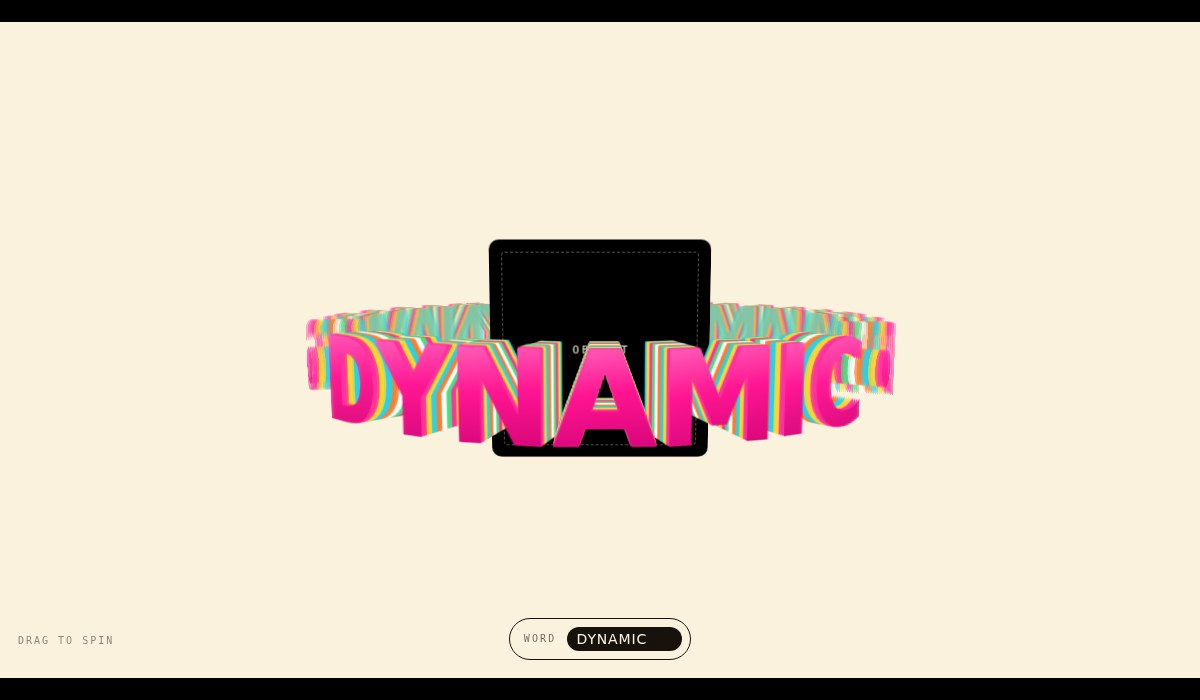
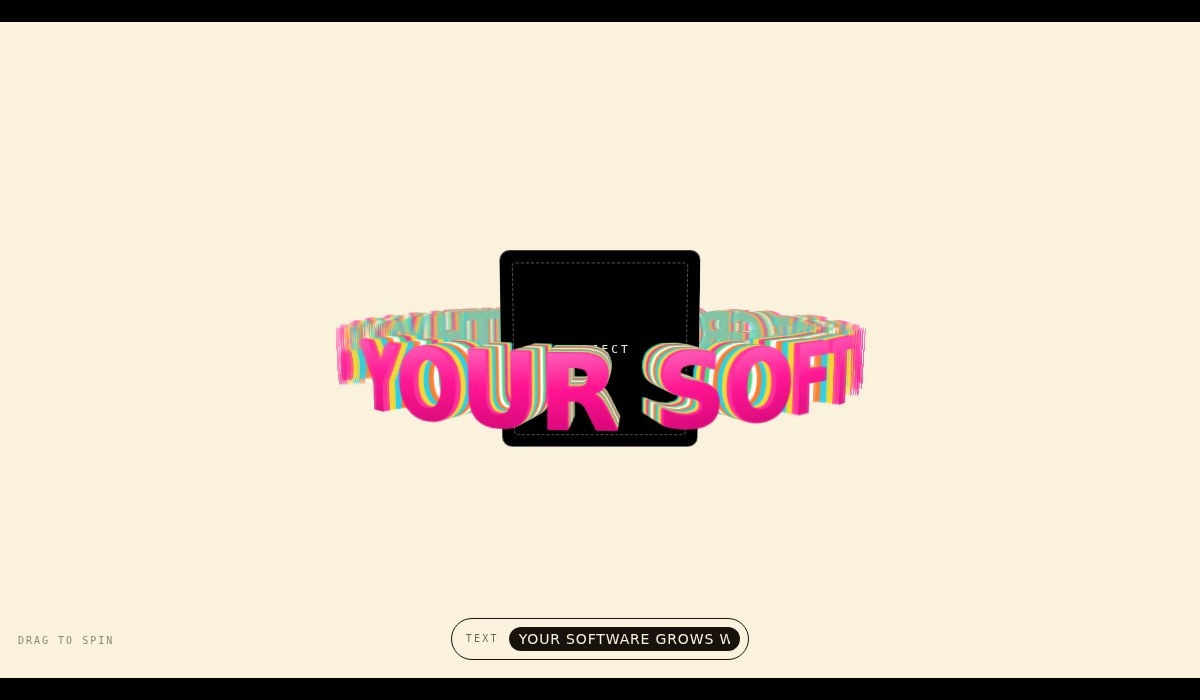
Set orbit text to the tagline and fit long phrases to the stage
A full sentence made the ring balloon well past the viewport, since the
radius is derived from the text (2πr = total width). Two fits now pull it
back, both solved with a single type scale:

- maxRadius caps the ring against its container.
- arc caps how wide the magnified front of the ring may run. This is the
  one that matters for a sentence: perspective enlarges the near letters,
  so a long phrase overflows sideways while only a few stay legible.

Letter arcs are proportional to glyph widths, so scaling the type scales
the radius by the same factor and leaves the angles untouched — one scale
satisfies both, resolved on load, on resize and on every setText.

Keeps repeat at 1: bigger type showing about a third of the sentence at a
time, rather than halving the type to show more.

Claude-Session: https://claude.ai/code/session_01Mu3EsWbYmdiY3gRFN2tWcj

Changed region(s): [[0.2467, 0.33, 0.7708, 0.66], [0.37, 0.87, 0.6167, 0.93]]

diff --git a/orbit.js b/orbit.js
@@ -11,8 +11,8 @@
  */
 class TextOrbit {
   static defaults = {
-    text: 'DYNAMIC',
-    repeat: 3,            // times the word goes round the ring
+    text: 'YOUR SOFTWARE GROWS WITH YOU',
+    repeat: 1,            // times the text goes round the ring
     separator: ' • ',     // set '' to butt the repeats together
     speed: 0.22,          // degrees per 60fps frame
     tilt: -7,             // ring tilt in degrees
@@ -20,6 +20,8 @@ class TextOrbit {
     depth: 26,            // extrusion slices per letter
     band: 3,              // slices per colour stripe
     objectScale: 0.8,     // centre object size, relative to ring radius
+    maxRadius: 0.46,      // biggest the ring may get, as a fraction of the stage
+    arc: 0.4,             // share of the text that should read across the stage
     sensitivity: 0.3,     // degrees of spin per pixel dragged
     friction: 0.94,
     // Chromatic stripes down the extruded sides, front-most first.
@@ -135,12 +137,40 @@ class TextOrbit {
   #layout() {
     if (!this.chars?.length) return;
 
+    this.el.style.setProperty('--type-scale', 1);
     const widths = this.chars.map((c) => c.offsetWidth);
     const total = widths.reduce((a, b) => a + b, 0);
     if (!total) return;
 
     // The text wraps the circumference exactly once: 2πr = total width.
-    const radius = (total * this.opts.spread) / (2 * Math.PI);
+    const raw = (total * this.opts.spread) / (2 * Math.PI);
+
+    // Letter arcs are proportional to glyph widths, so scaling the type
+    // scales the radius by the same factor and leaves the angles untouched.
+    // That lets a single scale satisfy both fits below.
+    const box = this.el.getBoundingClientRect();
+    const stage = this.el.closest('.stage') || this.el;
+    const persp = parseFloat(getComputedStyle(stage).perspective) || 760;
+
+    // 1. The ring itself has to fit the stage.
+    const limit = Math.max(140, Math.min(box.width, box.height) * this.opts.maxRadius);
+    let fit = Math.min(1, limit / raw);
+
+    // 2. The front of the ring is magnified by perspective, so a long phrase
+    //    can still overflow sideways with only a few letters legible. Shrink
+    //    until the readable front arc spans the stage rather than overrunning
+    //    it. Magnification falls as the type shrinks, so this converges.
+    const want = box.width * 0.86;
+    for (let i = 0; i < 8; i++) {
+      const r = raw * fit;
+      const mag = persp / Math.max(persp - r, persp * 0.3);
+      const front = total * this.opts.spread * fit * this.opts.arc * mag;
+      if (front <= want) break;
+      fit *= want / front;
+    }
+
+    this.el.style.setProperty('--type-scale', fit.toFixed(4));
+    const radius = raw * fit;
     this.radius = radius;
 
     let walked = 0;

diff --git a/index.html b/index.html
@@ -15,7 +15,7 @@
     <div class="bar bar--top"></div>
 
     <div class="stage" id="stage" tabindex="0">
-      <div class="orbit" id="orbit" data-text="DYNAMIC" data-repeat="3">
+      <div class="orbit" id="orbit" data-text="YOUR SOFTWARE GROWS WITH YOU" data-repeat="1">
         <!-- Centre object slot. Replace the contents of this element with
              your own object — keep the [data-object] attribute and the
              .orbit__object class, which pin it to z = 0 so the ring passes
@@ -32,9 +32,9 @@
 
     <div class="controls">
       <label class="field">
-        <span class="field__label">word</span>
-        <input id="word" type="text" value="DYNAMIC" maxlength="14"
-               spellcheck="false" autocomplete="off" aria-label="Orbiting word" />
+        <span class="field__label">text</span>
+        <input id="word" type="text" value="YOUR SOFTWARE GROWS WITH YOU" maxlength="44"
+               spellcheck="false" autocomplete="off" aria-label="Orbiting text" />
       </label>
     </div>
   </div>

diff --git a/orbit.css b/orbit.css
@@ -97,7 +97,7 @@ body {
   transform-style: preserve-3d;
   /* --a places the letter round the ring, --r pushes it out to the rim */
   transform: translate(-50%, -50%) rotateY(var(--a)) translateZ(var(--r));
-  font-size: var(--type-size);
+  font-size: calc(var(--type-size) * var(--type-scale, 1));
   font-weight: 600;
   line-height: 1;
   letter-spacing: -0.01em;
@@ -204,7 +204,8 @@ body {
 }
 
 .field input {
-  width: 13ch;
+  width: 26ch;
+  max-width: 42vw;
   padding: 4px 10px;
   border: 0;
   border-radius: 999px;

diff --git a/README.md b/README.md
@@ -50,7 +50,22 @@ once:
 radius = totalTextWidth * spread / 2π
 ```
 
-So a longer word, more repeats, or a bigger font all grow the ring.
+So a longer phrase, more repeats, or a bigger font all grow the ring — then two
+fits pull it back into the stage. `maxRadius` caps the ring against the container,
+and `arc` caps how wide the magnified front of the ring may run, which is the one
+that matters for a long phrase: perspective enlarges the near letters, so a
+sentence can overflow sideways while only a few letters are legible. Because each
+letter's arc is proportional to its glyph width, scaling the type scales the
+radius by the same factor and leaves the angles untouched — so a single scale
+satisfies both fits, and the component solves for it on load, on resize, and on
+every `setText`.
+
+### Reading a long phrase
+
+Only the front of the ring faces you, so roughly a third of the text is legible
+at a time — the rest arrives as it turns. `repeat` is the dial: `1` gives big
+chunky letters showing about a third of a sentence, `2` halves the type and shows
+closer to two thirds. Pick by whether the phrase is a headline or a ticker.
 
 ### One thing to know if you edit this
 
@@ -66,8 +81,8 @@ Pass as a second argument, or as `data-` attributes (`data-text`, `data-repeat`,
 
 | Option | Default | What it does |
 | --- | --- | --- |
-| `text` | `'DYNAMIC'` | The orbiting word |
-| `repeat` | `3` | Times the word goes round the ring |
+| `text` | `'YOUR SOFTWARE GROWS WITH YOU'` | The orbiting text |
+| `repeat` | `1` | Times the text goes round the ring |
 | `separator` | `' • '` | Set `''` to butt the repeats together |
 | `speed` | `0.22` | Degrees per frame |
 | `tilt` | `-7` | Ring tilt in degrees |
@@ -75,6 +90,8 @@ Pass as a second argument, or as `data-` attributes (`data-text`, `data-repeat`,
 | `depth` | `26` | Extrusion slices per letter |
 | `band` | `3` | Slices per colour stripe |
 | `objectScale` | `0.8` | Centre object size, relative to ring radius |
+| `maxRadius` | `0.46` | Biggest the ring may get, as a fraction of the stage |
+| `arc` | `0.4` | Share of the text that should read across the stage |
 | `stripes` | 6 colours | The extrusion palette |
 
 Methods: `setText(word)` swaps the word and re-lays the ring without a rebuild;
